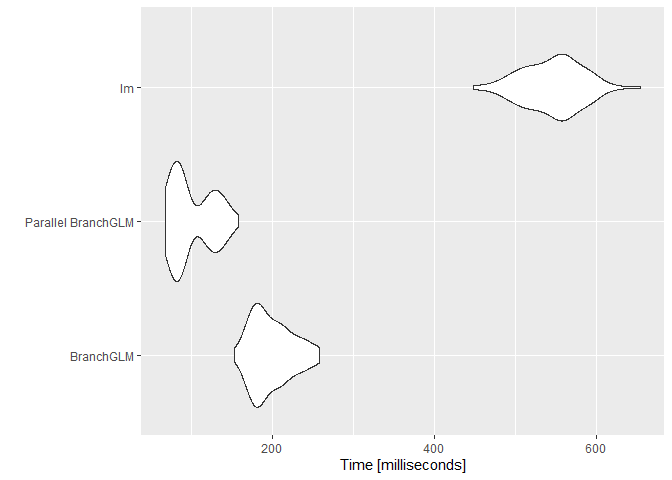
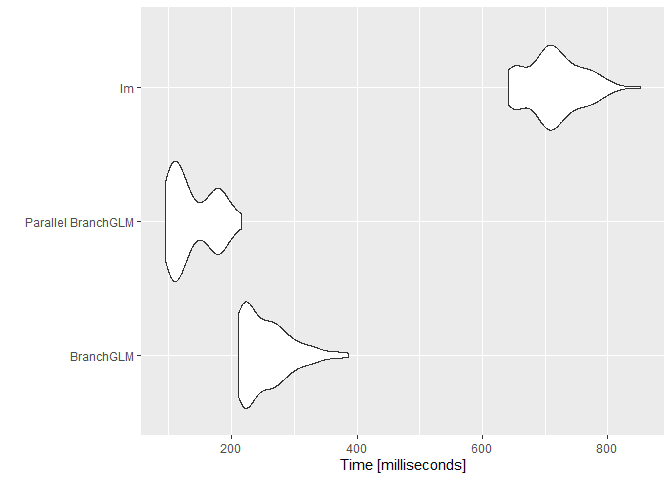
Updating to push to CRAN

diff --git a/README.md b/README.md
@@ -155,7 +155,7 @@ BranchTime
 ```
 
     ##    user  system elapsed 
-    ##    0.24    0.00    0.23
+    ##    0.26    0.00    0.26
 
 ``` r
 Xy <- cbind(df[,-1], df[,1])
@@ -166,10 +166,10 @@ ExhaustiveTime
 ```
 
     ##    user  system elapsed 
-    ##  151.79    0.57  152.50
+    ##  183.34    0.61  184.09
 
 Finding the top 10 logistic regression models for this simulated dataset
-with 15 variables with the branch and bound method is about 663.04 times
+with 15 variables with the branch and bound method is about 708.04 times
 faster than an exhaustive search.
 
 ### Checking results
@@ -230,7 +230,7 @@ SerialTime
 ```
 
     ##    user  system elapsed 
-    ##   57.54    0.48   58.08
+    ##   67.20    0.72   68.00
 
 ### Parallel time
 
@@ -245,10 +245,10 @@ ParallelTime
 ```
 
     ##    user  system elapsed 
-    ##  120.83    0.39   13.41
+    ##  237.74    0.92   25.10
 
 Finding the top logistic regression model for this simulated dataset
-with 40 variables with parallel computation is about 4.33 times faster
+with 40 variables with parallel computation is about 2.71 times faster
 than without parallel computation.
 
 ### Checking results

diff --git a/cran-comments.md b/cran-comments.md
@@ -1,4 +1,4 @@
 BranchGLM
 ================
 
-Updating package to version 2.0.0.
+Updating package to version 2.0.1.
